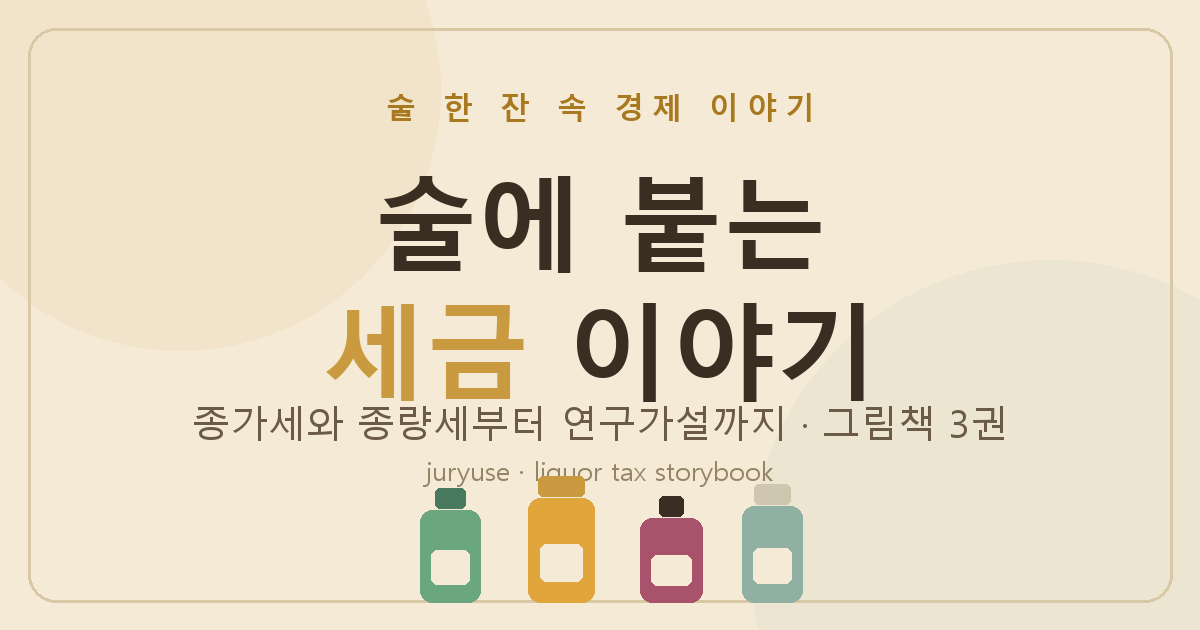
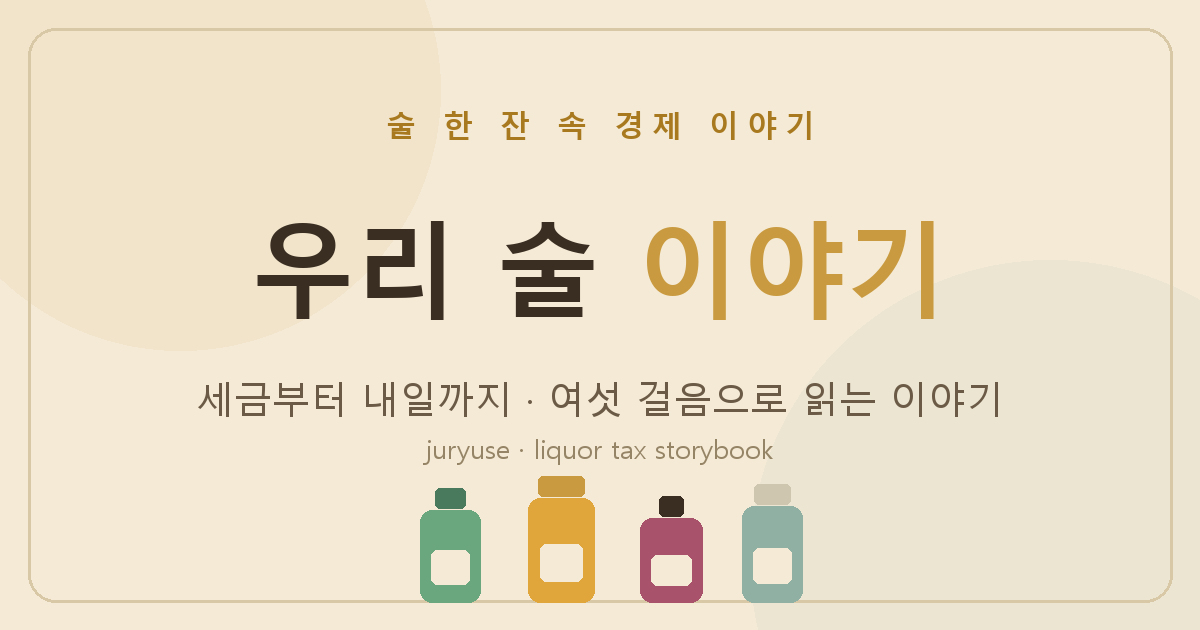
3편을 이어지는 한 편(6부작)으로 통합, 더 쉬운 스토리라인 + 썸네일 갱신

Changed region(s): [[0.1542, 0.2714, 0.8325, 0.7841], [0.37, 0.1508, 0.6783, 0.2413], [0.3083, 0.1508, 0.3392, 0.2413]]

diff --git a/index.html b/index.html
@@ -1,12 +1,18 @@
-<!DOCTYPE html>
+<!DOCTYPE html>
 <html lang="ko">
 <head>
 <meta charset="UTF-8">
 <meta name="viewport" content="width=device-width, initial-scale=1.0">
-<title>술에 붙는 세금 이야기 · 주류세 그림책 시리즈</title>
-<meta property="og:title" content="술에 붙는 세금 이야기 · 주류세 그림책 시리즈">
-<meta property="og:description" content="종가세와 종량세, 국산 술 살리기, 그리고 연구가설까지 — 세 권으로 읽는 주류세 이야기">
+<title>우리 술 이야기 · 세금부터 내일까지, 여섯 걸음</title>
+<meta property="og:title" content="우리 술 이야기 · 세금부터 내일까지">
+<meta property="og:description" content="술값의 절반은 세금? 억울한 우리 술이 세계로 나가기까지 — 여섯 걸음으로 이어지는 이야기">
 <meta property="og:type" content="website">
+<meta property="og:image" content="https://aiforalab.com/juryuse/thumbnail.png">
+<meta property="og:image:width" content="1200">
+<meta property="og:image:height" content="630">
+<meta property="og:url" content="https://aiforalab.com/juryuse/">
+<meta name="twitter:card" content="summary_large_image">
+<meta name="twitter:image" content="https://aiforalab.com/juryuse/thumbnail.png">
 <link rel="preconnect" href="https://fonts.googleapis.com">
 <link rel="preconnect" href="https://fonts.gstatic.com" crossorigin>
 <link href="https://fonts.googleapis.com/css2?family=Gowun+Batang:wght@400;700&family=Gaegu:wght@400;700&family=Gothic+A1:wght@400;500;700;800&display=swap" rel="stylesheet">
@@ -23,89 +29,209 @@
       radial-gradient(circle at 20% 10%, rgba(201,154,63,.08), transparent 40%),
       radial-gradient(circle at 85% 80%, rgba(143,176,163,.10), transparent 45%),
       var(--paper);
-    color:var(--ink); font-family:'Gothic A1',sans-serif; line-height:1.7; -webkit-font-smoothing:antialiased;
-    min-height:100vh;
+    color:var(--ink); font-family:'Gothic A1',sans-serif; line-height:1.85; -webkit-font-smoothing:antialiased;
   }
-  .wrap{max-width:820px;margin:0 auto;padding:70px 20px 90px}
-  .cover{text-align:center;margin-bottom:56px}
-  .cover .eyebrow{font-family:'Gaegu',cursive;font-size:1.1rem;letter-spacing:.35em;color:var(--barley-deep);margin-bottom:18px}
-  .cover h1{font-family:'Gowun Batang',serif;font-weight:700;font-size:clamp(2.3rem,7vw,4rem);line-height:1.15;margin-bottom:14px}
+  .book{max-width:820px;margin:0 auto;padding:0 20px 100px}
+  .cover{min-height:88vh;display:flex;flex-direction:column;align-items:center;justify-content:center;text-align:center;padding:40px 0;}
+  .cover .eyebrow{font-family:'Gaegu',cursive;font-size:1.15rem;letter-spacing:.3em;color:var(--barley-deep);margin-bottom:18px;}
+  .cover h1{font-family:'Gowun Batang',serif;font-weight:700;font-size:clamp(2.6rem,8vw,4.6rem);line-height:1.15;color:var(--ink);margin-bottom:8px;}
   .cover h1 .accent{color:var(--barley-deep)}
-  .cover .sub{font-family:'Gaegu',cursive;font-size:1.25rem;color:var(--ink-soft)}
-  .bottles{display:flex;gap:6px;align-items:flex-end;justify-content:center;margin:34px 0 6px;height:120px}
+  .cover .sub{font-family:'Gaegu',cursive;font-size:1.35rem;color:var(--ink-soft);margin-top:22px;}
+  .cover .tiny{font-family:'Gaegu',cursive;font-size:1.05rem;color:var(--barley-deep);margin-top:26px}
+  .bottles{display:flex;gap:6px;align-items:flex-end;margin:36px 0 8px;height:120px}
   .bottles svg{filter:drop-shadow(0 8px 10px var(--shadow))}
-  .chapters{display:grid;gap:22px}
-  .ch{
-    display:flex;gap:22px;align-items:center;text-decoration:none;color:inherit;
-    background:linear-gradient(180deg,#fdf7e9,var(--paper));border:1px solid var(--line);border-radius:20px;
-    padding:26px 28px;box-shadow:0 14px 30px -20px var(--shadow);transition:transform .25s ease, box-shadow .25s ease;
+  .scroll-cue{margin-top:30px;font-family:'Gaegu',cursive;color:var(--ink-soft);font-size:1rem;animation:bob 2s ease-in-out infinite;}
+  @keyframes bob{0%,100%{transform:translateY(0)}50%{transform:translateY(7px)}}
+  .page{
+    background:linear-gradient(180deg,#fdf7e9,var(--paper));border:1px solid var(--line);border-radius:22px;
+    padding:46px 42px;margin:32px 0;box-shadow:0 14px 34px -18px var(--shadow);position:relative;
+    opacity:0;transform:translateY(28px);transition:opacity .7s ease,transform .7s ease;
   }
-  .ch:hover{transform:translateY(-4px);box-shadow:0 20px 38px -20px var(--shadow)}
-  .ch .num{
-    flex-shrink:0;width:58px;height:58px;border-radius:50%;display:flex;align-items:center;justify-content:center;
-    font-family:'Gowun Batang',serif;font-size:1.7rem;font-weight:700;color:#fff;
-  }
-  .ch:nth-child(1) .num{background:linear-gradient(155deg,var(--barley),var(--barley-deep))}
-  .ch:nth-child(2) .num{background:linear-gradient(155deg,var(--pour),var(--pour-deep))}
-  .ch:nth-child(3) .num{background:linear-gradient(155deg,var(--plum),var(--plum-deep))}
-  .ch .body h2{font-family:'Gowun Batang',serif;font-size:1.35rem;margin-bottom:4px}
-  .ch .body p{font-size:.98rem;color:var(--ink-soft)}
-  .ch .go{margin-left:auto;font-family:'Gaegu',cursive;color:var(--barley-deep);font-size:1.4rem;flex-shrink:0}
-  @media(max-width:560px){.ch .go{display:none}.ch{padding:22px}}
-  .note{margin-top:40px;text-align:center;font-size:.82rem;color:var(--ink-soft);border-top:1px dashed var(--line);padding-top:20px;line-height:1.6}
+  .page.show{opacity:1;transform:none}
+  .step{position:absolute;top:20px;right:26px;font-family:'Gaegu',cursive;color:var(--barley);font-size:1rem;letter-spacing:.05em;}
+  .page .folio{font-family:'Gaegu',cursive;color:var(--barley-deep);font-size:1.2rem;margin-bottom:2px;}
+  .page h2{font-family:'Gowun Batang',serif;font-weight:700;font-size:clamp(1.7rem,4.5vw,2.3rem);color:var(--ink);margin-bottom:18px;line-height:1.3;}
+  .page p{margin-bottom:16px;color:var(--ink-soft);font-size:1.12rem}
+  .page p strong{color:var(--ink);font-weight:700}
+  .scene{display:flex;justify-content:center;margin:6px 0 24px}
+  .scene svg{max-width:100%;height:auto;filter:drop-shadow(0 10px 16px var(--shadow))}
+  .big{display:flex;align-items:center;gap:16px;background:#fffdf6;border:2px dashed var(--barley);border-radius:14px;padding:14px 22px;margin:18px 0;}
+  .big .n{font-family:'Gowun Batang',serif;font-size:1.9rem;font-weight:700;color:var(--barley-deep);white-space:nowrap;line-height:1}
+  .big .t{font-size:1.02rem;color:var(--ink-soft)}
+  .hook{font-family:'Gaegu',cursive;font-size:1.25rem;color:var(--plum-deep);text-align:center;margin-top:22px}
+  .closing{text-align:center;padding:56px 30px 20px}
+  .closing h2{font-family:'Gowun Batang',serif;font-size:2rem;margin-bottom:14px}
+  .closing p{font-family:'Gaegu',cursive;font-size:1.3rem;color:var(--ink-soft)}
+  .source{margin-top:40px;font-size:.8rem;color:var(--ink-soft);text-align:center;border-top:1px dashed var(--line);padding-top:18px;line-height:1.6;}
 </style>
-<meta property="og:image" content="https://sdkparkforbi.github.io/liquor-tax-picturebook/thumbnail.png">
-<meta property="og:image:width" content="1200">
-<meta property="og:image:height" content="630">
-<meta property="og:url" content="https://sdkparkforbi.github.io/liquor-tax-picturebook/">
-<meta name="twitter:card" content="summary_large_image">
-<meta name="twitter:image" content="https://sdkparkforbi.github.io/liquor-tax-picturebook/thumbnail.png">
 </head>
 <body>
-<div class="wrap">
+<div class="book">
+
+  <!-- COVER -->
   <header class="cover">
     <div class="eyebrow">술 한 잔 속 경제 이야기</div>
-    <h1>술에 붙는 <span class="accent">세금</span> 이야기</h1>
+    <h1>우리 술<br><span class="accent">이야기</span></h1>
     <div class="bottles" aria-hidden="true">
-      <svg width="42" height="108" viewBox="0 0 46 118"><rect x="18" y="0" width="10" height="20" rx="2" fill="#4a7a5e"/><path d="M14 20h18l4 16v70a6 6 0 0 1-6 6H16a6 6 0 0 1-6-6V36z" fill="#6aa77f"/><rect x="12" y="52" width="22" height="34" rx="3" fill="#f4ead5"/></svg>
-      <svg width="48" height="104" viewBox="0 0 52 112"><path d="M10 22h32v78a8 8 0 0 1-8 8H18a8 8 0 0 1-8-8z" fill="#e0a63b"/><path d="M10 22h32v22H10z" fill="#f4d27a"/><rect x="8" y="16" width="36" height="10" rx="4" fill="#c99a3f"/></svg>
-      <svg width="46" height="94" viewBox="0 0 50 100"><rect x="20" y="0" width="10" height="16" rx="2" fill="#3a2e22"/><path d="M10 30c0-8 5-14 15-14s15 6 15 14v56a6 6 0 0 1-6 6H16a6 6 0 0 1-6-6z" fill="#a8536b"/><rect x="13" y="46" width="24" height="30" rx="2" fill="#f4ead5"/></svg>
-      <svg width="44" height="98" viewBox="0 0 48 106"><path d="M12 24h24l3 14v56a8 8 0 0 1-8 8H17a8 8 0 0 1-8-8V38z" fill="#e8e2d4"/><rect x="16" y="8" width="16" height="18" rx="3" fill="#cfc6b0"/><rect x="10" y="54" width="28" height="26" rx="3" fill="#8fb0a3"/></svg>
+      <svg width="46" height="118" viewBox="0 0 46 118"><rect x="18" y="0" width="10" height="20" rx="2" fill="#4a7a5e"/><path d="M14 20h18l4 16v70a6 6 0 0 1-6 6H16a6 6 0 0 1-6-6V36z" fill="#6aa77f"/><rect x="12" y="52" width="22" height="34" rx="3" fill="#f4ead5"/></svg>
+      <svg width="52" height="112" viewBox="0 0 52 112"><path d="M10 22h32v78a8 8 0 0 1-8 8H18a8 8 0 0 1-8-8z" fill="#e0a63b"/><path d="M10 22h32v22H10z" fill="#f4d27a"/><rect x="8" y="16" width="36" height="10" rx="4" fill="#c99a3f"/></svg>
+      <svg width="50" height="100" viewBox="0 0 50 100"><rect x="20" y="0" width="10" height="16" rx="2" fill="#3a2e22"/><path d="M10 30c0-8 5-14 15-14s15 6 15 14v56a6 6 0 0 1-6 6H16a6 6 0 0 1-6-6z" fill="#a8536b"/><rect x="13" y="46" width="24" height="30" rx="2" fill="#f4ead5"/></svg>
+      <svg width="48" height="106" viewBox="0 0 48 106"><path d="M12 24h24l3 14v56a8 8 0 0 1-8 8H17a8 8 0 0 1-8-8V38z" fill="#e8e2d4"/><rect x="16" y="8" width="16" height="18" rx="3" fill="#cfc6b0"/><rect x="10" y="54" width="28" height="26" rx="3" fill="#8fb0a3"/></svg>
     </div>
-    <p class="sub">종가세와 종량세부터 연구가설까지 — 세 권으로 읽는 이야기</p>
+    <p class="sub">세금부터 내일까지</p>
+    <p class="tiny">여섯 걸음으로 이어지는 한 편의 이야기</p>
+    <div class="scroll-cue">↓ 첫 걸음을 떼어 보세요</div>
   </header>
 
-  <nav class="chapters">
-    <a class="ch" href="liquor_tax_picturebook.html">
-      <div class="num">1</div>
-      <div class="body">
-        <h2>술에 붙는 세금 이야기</h2>
-        <p>술값의 절반은 세금? 종가세와 종량세, 두 가지 방식의 세금을 그림으로.</p>
-      </div>
-      <div class="go">→</div>
-    </a>
-    <a class="ch" href="liquor_tax_picturebook2_국산술살리기.html">
-      <div class="num">2</div>
-      <div class="body">
-        <h2>세금을 낮추면 우리 술이 살아날까?</h2>
-        <p>종량세로 국산 술값을 낮추는 가장 똑똑한 방법 — 무거운 짐부터 풀어주기.</p>
-      </div>
-      <div class="go">→</div>
-    </a>
-    <a class="ch" href="liquor_tax_picturebook3_연구가설.html">
-      <div class="num">3</div>
-      <div class="body">
-        <h2>우리 술의 수수께끼</h2>
-        <p>세금 무거운 술이 더 잘 팔린다?! 7개의 가설로 푸는 하나의 질문.</p>
-      </div>
-      <div class="go">→</div>
-    </a>
-  </nav>
+  <!-- 1 -->
+  <section class="page">
+    <span class="step">1 / 6</span>
+    <div class="folio">첫째 걸음</div>
+    <h2>술값의 절반은 세금이래요</h2>
+    <div class="scene" aria-hidden="true">
+      <svg width="360" height="150" viewBox="0 0 360 150">
+        <circle cx="80" cy="75" r="46" fill="#f4d27a" stroke="#c99a3f" stroke-width="2"/>
+        <text x="80" y="70" text-anchor="middle" font-size="13" font-family="Gothic A1" font-weight="700" fill="#3a2e22">내가 낸</text>
+        <text x="80" y="88" text-anchor="middle" font-size="13" font-family="Gothic A1" font-weight="700" fill="#3a2e22">술값</text>
+        <path d="M135 75h40" stroke="#c99a3f" stroke-width="3" marker-end="url(#a1)"/>
+        <defs><marker id="a1" markerWidth="10" markerHeight="10" refX="6" refY="3" orient="auto"><path d="M0 0l6 3-6 3z" fill="#c99a3f"/></marker></defs>
+        <rect x="188" y="44" width="120" height="30" rx="5" fill="#a89a6c"/><text x="248" y="64" text-anchor="middle" font-size="13" fill="#fff" font-family="Gothic A1">술을 만든 값</text>
+        <rect x="188" y="78" width="120" height="30" rx="5" fill="#a8536b"/><text x="248" y="98" text-anchor="middle" font-size="13" fill="#fff" font-family="Gothic A1">세금</text>
+      </svg>
+    </div>
+    <p>소주 한 병, 맥주 한 캔을 살 때 우리가 내는 돈. 그 안에는 <strong>술을 만든 값</strong>만 있는 게 아니에요.</p>
+    <p>그 위에 <strong>세금</strong>이 얹혀요. 어떤 술은 <strong>값의 절반쯤이 세금</strong>이랍니다.</p>
+    <p class="hook">그런데 이 세금, 매기는 방법이 두 가지예요.</p>
+  </section>
 
-  <div class="note">
-    데이터 출처: 국세청 주세신고현황 · 한국은행 소비자물가지수 · KCI·국제 문헌 등<br>
+  <!-- 2 -->
+  <section class="page">
+    <span class="step">2 / 6</span>
+    <div class="folio">둘째 걸음</div>
+    <h2>‘값’에 붙일까, ‘양’에 붙일까</h2>
+    <div class="scene" aria-hidden="true">
+      <svg width="380" height="160" viewBox="0 0 380 160">
+        <rect x="30" y="30" width="150" height="100" rx="12" fill="#fdf7e9" stroke="#a8536b" stroke-width="2"/>
+        <text x="105" y="60" text-anchor="middle" font-size="15" font-family="Gowun Batang,serif" font-weight="700" fill="#843f53">종가세</text>
+        <text x="105" y="86" text-anchor="middle" font-size="13" fill="#6b5a45" font-family="Gaegu,cursive">술의 '값'에</text>
+        <text x="105" y="108" text-anchor="middle" font-size="12" fill="#843f53">비쌀수록 세금↑</text>
+        <rect x="200" y="30" width="150" height="100" rx="12" fill="#fdf7e9" stroke="#5b8375" stroke-width="2"/>
+        <text x="275" y="60" text-anchor="middle" font-size="15" font-family="Gowun Batang,serif" font-weight="700" fill="#5b8375">종량세</text>
+        <text x="275" y="86" text-anchor="middle" font-size="13" fill="#6b5a45" font-family="Gaegu,cursive">술의 '양'에</text>
+        <text x="275" y="108" text-anchor="middle" font-size="12" fill="#5b8375">값은 안 봐요</text>
+      </svg>
+    </div>
+    <p>하나는 술의 <strong>‘값’에 붙여요(종가세).</strong> 비싼 술일수록 세금도 커지죠.</p>
+    <p>다른 하나는 술의 <strong>‘양’에 붙여요(종량세).</strong> 값은 안 보고, 담긴 만큼만 세금을 매겨요.</p>
+    <p class="hook">우리나라 소주·위스키는 아직 ‘값’에 붙이는 종가세예요.</p>
+  </section>
+
+  <!-- 3 -->
+  <section class="page">
+    <span class="step">3 / 6</span>
+    <div class="folio">셋째 걸음</div>
+    <h2>억울한 우리 술</h2>
+    <div class="scene" aria-hidden="true">
+      <svg width="380" height="190" viewBox="0 0 380 190">
+        <rect x="182" y="150" width="16" height="34" rx="3" fill="#a8791f"/>
+        <rect x="150" y="176" width="80" height="12" rx="6" fill="#a8791f"/>
+        <rect x="60" y="80" width="260" height="9" rx="4" fill="#c99a3f"/>
+        <line x1="100" y1="85" x2="100" y2="110" stroke="#5b8375" stroke-width="2"/>
+        <rect x="82" y="110" width="36" height="22" rx="4" fill="#8fb0a3"/>
+        <text x="100" y="150" text-anchor="middle" font-size="12" fill="#5b8375" font-family="Gaegu,cursive">맥주</text>
+        <line x1="290" y1="85" x2="290" y2="100" stroke="#843f53" stroke-width="2"/>
+        <rect x="258" y="100" width="64" height="58" rx="6" fill="#a8536b"/>
+        <text x="290" y="126" text-anchor="middle" font-size="12" fill="#fff" font-family="Gothic A1" font-weight="700">위스키</text>
+        <text x="290" y="143" text-anchor="middle" font-size="11" fill="#fff" font-family="Gothic A1">세금</text>
+      </svg>
+    </div>
+    <p>‘값’에 붙이니 문제가 생겨요. 좋은 재료로 정성껏 만든 <strong>비싼 술일수록 세금이 무거워집니다.</strong></p>
+    <p>그래서 잘 만들고 싶어도, 세금이 발목을 잡아요.</p>
+    <div class="big"><div class="n">14배</div><div class="t">위스키에 붙는 세금은 맥주의 열네 배!</div></div>
+    <p class="hook">그런데… 이상한 일이 벌어지고 있어요.</p>
+  </section>
+
+  <!-- 4 -->
+  <section class="page">
+    <span class="step">4 / 6</span>
+    <div class="folio">넷째 걸음</div>
+    <h2>그래도 쑥쑥 크는 우리 술</h2>
+    <div class="scene" aria-hidden="true">
+      <svg width="360" height="180" viewBox="0 0 360 180">
+        <line x1="40" y1="155" x2="330" y2="155" stroke="#d8c8a6" stroke-width="2"/>
+        <rect x="90" y="120" width="46" height="35" rx="4" fill="#e0d3b5"/>
+        <text x="113" y="172" text-anchor="middle" font-size="12" fill="#6b5a45" font-family="Gaegu,cursive">예전</text>
+        <rect x="210" y="45" width="46" height="110" rx="4" fill="#a8536b"/>
+        <text x="233" y="38" text-anchor="middle" font-size="15" fill="#843f53" font-family="Gaegu,cursive" font-weight="700">3배 ↑</text>
+        <text x="233" y="172" text-anchor="middle" font-size="12" fill="#6b5a45" font-family="Gaegu,cursive">지금</text>
+      </svg>
+    </div>
+    <p>놀랍게도 <strong>위스키와 증류식 소주가 3배 가까이 컸어요.</strong> 무거운 세금을 지고도 말이죠.</p>
+    <p>여기서 궁금해집니다.</p>
+    <div class="big"><div class="n">?</div><div class="t">세금이라는 무거운 짐을 덜어주면, 얼마나 더 클까?</div></div>
+    <p class="hook">그래서 사람들이 말해요 — “세금을 낮춰보자!”</p>
+  </section>
+
+  <!-- 5 -->
+  <section class="page">
+    <span class="step">5 / 6</span>
+    <div class="folio">다섯째 걸음</div>
+    <h2>세금을 낮추면? (단, 조심조심)</h2>
+    <div class="scene" aria-hidden="true">
+      <svg width="380" height="160" viewBox="0 0 380 160">
+        <path d="M60 40h40l6 20v80a6 6 0 0 1-6 6H60a6 6 0 0 1-6-6V60z" fill="#a8536b"/>
+        <rect x="34" y="74" width="32" height="46" rx="6" fill="#843f53"/>
+        <text x="80" y="150" text-anchor="middle" font-size="12" fill="#6b5a45" font-family="Gaegu,cursive">무거운 세금</text>
+        <path d="M150 90h70" stroke="#c99a3f" stroke-width="4" marker-end="url(#a5)"/>
+        <defs><marker id="a5" markerWidth="12" markerHeight="12" refX="7" refY="4" orient="auto"><path d="M0 0l8 4-8 4z" fill="#c99a3f"/></marker></defs>
+        <text x="185" y="80" text-anchor="middle" font-size="12" fill="#a8791f" font-family="Gaegu,cursive">종량세로</text>
+        <path d="M300 40h40l6 20v80a6 6 0 0 1-6 6h-40a6 6 0 0 1-6-6V60z" fill="#6aa77f"/>
+        <rect x="288" y="94" width="18" height="18" rx="4" fill="#5b8375"/>
+        <text x="320" y="150" text-anchor="middle" font-size="12" fill="#5b8375" font-family="Gaegu,cursive">가벼워진 세금</text>
+      </svg>
+    </div>
+    <p>프리미엄 술을 <strong>‘양’에 붙이는 종량세로</strong> 바꾸면, 무거운 세금이 확 가벼워지고 <strong>술값도 내려가요.</strong> 실제로 2020년 맥주, 2024년 소주에서 값이 내렸답니다.</p>
+    <p>하지만 조심! <strong>서민의 술 소주</strong>는 오히려 오를 수 있어요. 그래서 소주는 그대로 두고, <strong>비싼 술부터 살살</strong> 바꿔요.</p>
+    <p class="hook">그럼, 우리 술의 내일은 어떻게 될까요?</p>
+  </section>
+
+  <!-- 6 -->
+  <section class="page">
+    <span class="step">6 / 6</span>
+    <div class="folio">여섯째 걸음</div>
+    <h2>우리 술의 내일</h2>
+    <div class="scene" aria-hidden="true">
+      <svg width="360" height="160" viewBox="0 0 360 160">
+        <circle cx="180" cy="80" r="58" fill="#eaf1ed" stroke="#8fb0a3" stroke-width="2"/>
+        <path d="M180 22a58 58 0 0 1 0 116M180 22v116M133 55h94M133 105h94" stroke="#a8c4b8" stroke-width="1.5" fill="none"/>
+        <path d="M176 40h8l1 5v30a4 4 0 0 1-4 4h-3a4 4 0 0 1-4-4V45z" fill="#a8536b"/>
+        <path d="M250 70 q40 -20 70 -6" stroke="#c99a3f" stroke-width="3" fill="none" marker-end="url(#a6)"/>
+        <defs><marker id="a6" markerWidth="10" markerHeight="10" refX="6" refY="4" orient="auto"><path d="M0 0l8 4-8 4z" fill="#c99a3f"/></marker></defs>
+        <text x="300" y="55" text-anchor="middle" font-size="12" fill="#a8791f" font-family="Gaegu,cursive">세계로</text>
+      </svg>
+    </div>
+    <p>세금을 ‘값’이 아니라 ‘양’에 잘 매기면, 이런 일이 생겨요.</p>
+    <p><strong>① 국산 술이 싸지고 · ② 더 좋은 술을 만들고 · ③ 세계로 수출되고 · ④ 소주값은 지켜져요.</strong></p>
+    <p>답을 미리 정하진 않아요. <strong>데이터로 하나하나 확인하면서,</strong> 우리 술의 내일을 그려갑니다. 🥃</p>
+  </section>
+
+  <!-- CLOSING -->
+  <section class="page closing">
+    <h2>여섯 걸음의 끝에서</h2>
+    <p>술 한 잔 값에도<br>이렇게 많은 이야기가 담겨 있어요.<br><br>세금을 <strong>어떻게 매기느냐</strong>가<br>우리 술의 <strong>내일</strong>을 조용히 바꿔놓는답니다.</p>
+  </section>
+
+  <div class="source">
+    참고: 국세청 주세신고현황(2010~2024) · 한국은행 소비자물가지수 · 기획재정부 종량세 전환·기준판매비율 · 국내외 학술 문헌 등<br>
     ※ 교육·연구 목적의 그림책입니다. 세율·수치는 시점에 따라 달라질 수 있습니다.
   </div>
 </div>
+
+<script>
+  const pages=document.querySelectorAll('.page');
+  const io=new IntersectionObserver((es)=>{es.forEach(e=>{if(e.isIntersecting){e.target.classList.add('show');io.unobserve(e.target);}});},{threshold:.12});
+  pages.forEach(p=>io.observe(p));
+  if(window.matchMedia('(prefers-reduced-motion: reduce)').matches){pages.forEach(p=>p.classList.add('show'));}
+</script>
 </body>
 </html>

diff --git a/README.md b/README.md
@@ -1,15 +1,16 @@
-# 술에 붙는 세금 이야기 — 주류세 그림책 시리즈
+# 우리 술 이야기 — 세금부터 내일까지
 
-종가세와 종량세, 국산 술 살리기, 그리고 연구가설까지 — 세 권으로 읽는 주류세 이야기.
+술값의 절반은 세금? 억울한 우리 술이 세계로 나가기까지 — **여섯 걸음으로 이어지는 한 편의 그림책**.
 
-## 목차
-1. **[술에 붙는 세금 이야기](liquor_tax_picturebook.html)** — 종가세와 종량세, 두 가지 방식의 세금
-2. **[세금을 낮추면 우리 술이 살아날까?](liquor_tax_picturebook2_국산술살리기.html)** — 종량세로 국산 술값 낮추기
-3. **[우리 술의 수수께끼](liquor_tax_picturebook3_연구가설.html)** — 7개의 연구가설
-
-`index.html`이 표지·목차입니다.
+`index.html` 한 편으로 읽습니다. (여섯 걸음)
+1. 술값의 절반은 세금이래요
+2. ‘값’에 붙일까, ‘양’에 붙일까 (종가세·종량세)
+3. 억울한 우리 술 (좋은 술일수록 세금 폭탄)
+4. 그래도 쑥쑥 크는 우리 술 (수수께끼)
+5. 세금을 낮추면? (단, 조심조심)
+6. 우리 술의 내일
 
 ## 데이터 출처
-국세청 주세신고현황 · 한국은행 소비자물가지수 · KCI·국제 학술 문헌 등.
+국세청 주세신고현황 · 한국은행 소비자물가지수 · 기획재정부 종량세 전환·기준판매비율 · 국내외 학술 문헌 등.
 
 > 교육·연구 목적의 그림책입니다. 세율·수치는 시점에 따라 달라질 수 있습니다.